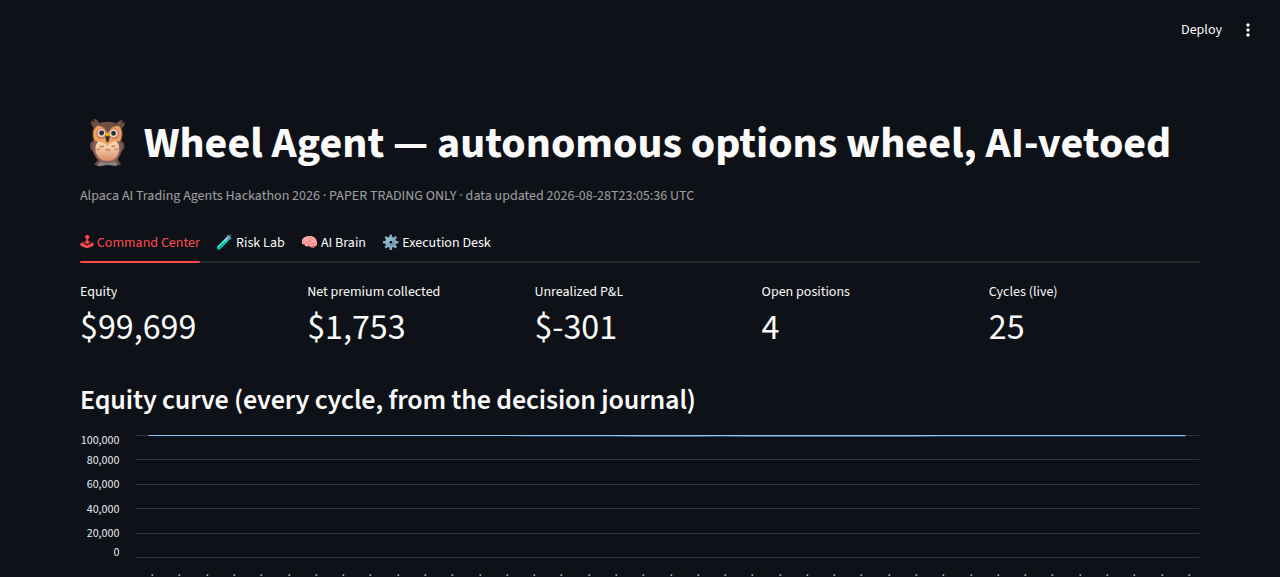
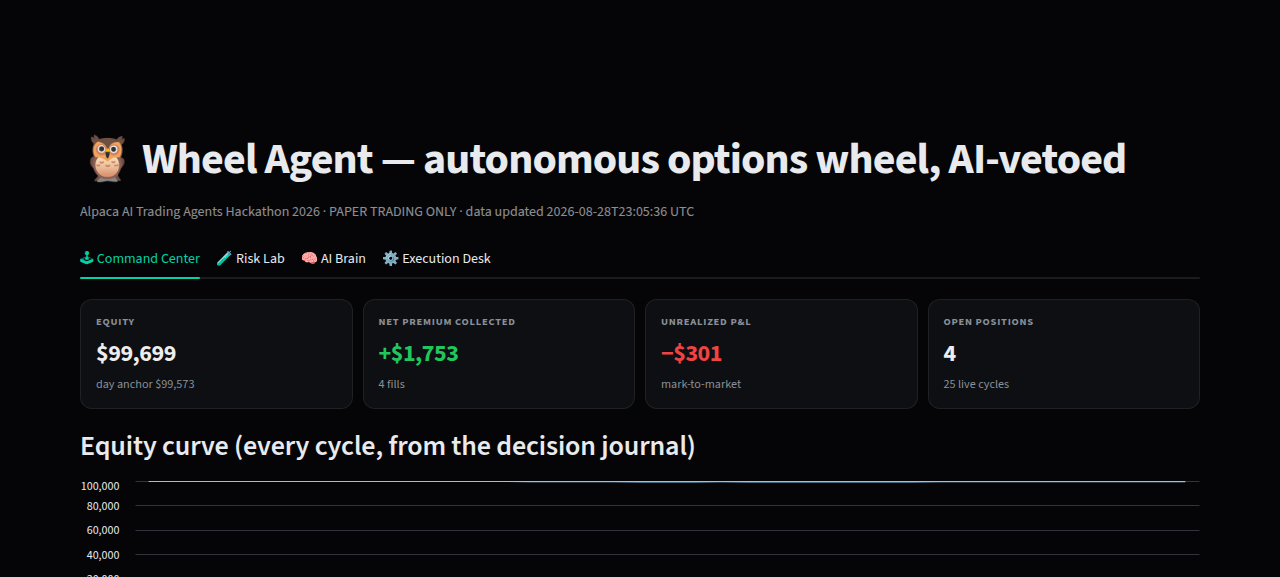
Redesign dashboard: modern-dark fintech theme with financial color semantics
Theme guided by ui-ux-pro-max-skill (MIT) style data: "Financial Dashboard"
semantics (profit green #22C55E / loss red #EF4444) + "Modern Dark" surfaces,
with an Alpaca-inspired mint-teal accent and Inter type. All KPI/macro/stress/
runtime metrics are now custom HTML cards (surface + border + rounded corners)
instead of stock st.metric; negative-P&L formatting fixed to "-$x"; Streamlit
chrome (Deploy button, status) hidden for a product feel. Theme config lives at
repo root (Streamlit Cloud) and agent/ (local runs). Visually verified.

diff --git a/agent/dashboard/app.py b/agent/dashboard/app.py
@@ -15,6 +15,91 @@ import streamlit as st
 st.set_page_config(page_title="Wheel Agent — Alpaca Hackathon",
                    page_icon="🦉", layout="wide")
 
+# --- theme: modern-dark fintech (ui-ux-pro-max guidance, MIT) with an
+# Alpaca-inspired mint-teal accent; financial semantics green/red stay native
+THEME_CSS = """
+<style>
+@import url('https://fonts.googleapis.com/css2?family=Inter:wght@400;500;600;700&display=swap');
+html, body, button, [class*="css"], [data-testid="stMetricLabel"],
+[data-testid="stMetricValue"] {
+    font-family: 'Inter', -apple-system, 'Segoe UI', sans-serif;
+}
+h1, h2, h3 {letter-spacing: -0.02em;}
+section[data-testid="stMetric"] {
+    background: #0D0F12;
+    border: 1px solid rgba(255,255,255,0.07);
+    border-radius: 12px;
+    padding: 14px 16px 10px 16px;
+}
+section[data-testid="stMetric"] > div > label {
+    color: #8A8F98 !important;
+    text-transform: uppercase;
+    font-size: 0.70rem;
+    letter-spacing: 0.05em;
+    font-weight: 600;
+}
+.stTabs [data-baseweb="tab-list"] {
+    gap: 4px;
+    border-bottom: 1px solid rgba(255,255,255,0.08);
+}
+.stTabs [data-baseweb="tab"] {
+    border-radius: 9px 9px 0 0;
+    padding: 8px 18px;
+    color: #8A8F98;
+    font-weight: 500;
+}
+.stTabs [data-baseweb="tab"][aria-selected="true"] {
+    background: #0D0F12;
+    color: #00D3A7 !important;
+    font-weight: 650;
+    border-bottom: 2px solid #00D3A7;
+}
+[data-testid="stHeader"] {background: transparent;}
+[data-testid="stHeadingContainer"] h2 {
+    border-left: 3px solid #00D3A7;
+    padding-left: 10px;
+}
+div[data-testid="stDataFrame"] {border: 1px solid rgba(255,255,255,0.07);
+    border-radius: 10px; overflow: hidden;}
+/* hide default streamlit chrome (deploy button, status) for a product feel */
+[data-testid="stToolbar"], [data-testid="stStatusWidget"],
+[class="stDeployButton"] {display: none !important;}
+#MainMenu {visibility: hidden;}
+footer {visibility: hidden;}
+</style>
+"""
+st.markdown(THEME_CSS, unsafe_allow_html=True)
+
+
+def fmt_usd(v, signed: bool = False) -> str:
+    if v is None:
+        return "—"
+    if signed:
+        return ("−" if v < 0 else "+") + f"${abs(v):,.0f}"
+    return f"${v:,.0f}"
+
+
+def _card(label: str, value: str, sub: str | None = None,
+          tone: str | None = None) -> str:
+    """A metric card with real surface, border and financial color semantics
+    (profit green / loss red / accent teal / neutral off-white)."""
+    color = {"good": "#22C55E", "bad": "#EF4444",
+             "accent": "#00D3A7"}.get(tone or "", "#EDEDEF")
+    subh = (f'<div style="color:#8A8F98;font-size:0.76rem;margin-top:3px">{sub}</div>'
+            if sub else "")
+    return (f'<div style="flex:1;min-width:130px;background:#0D0F12;'
+            f'border:1px solid rgba(255,255,255,0.08);border-radius:12px;'
+            f'padding:13px 15px;">'
+            f'<div style="color:#8A8F98;font-size:0.66rem;font-weight:700;'
+            f'letter-spacing:0.07em;text-transform:uppercase;">{label}</div>'
+            f'<div style="color:{color};font-size:1.5rem;font-weight:700;'
+            f'margin-top:4px;letter-spacing:-0.02em;">{value}</div>{subh}</div>')
+
+
+def card_row(html: str) -> None:
+    st.markdown(f'<div style="display:flex;gap:10px;margin:4px 0 8px 0;">{html}</div>',
+                unsafe_allow_html=True)
+
 HERE = Path(__file__).parent
 DATA = json.loads((HERE / "data.json").read_text())
 
@@ -31,12 +116,18 @@ tabs = st.tabs(["🕹 Command Center", "🧪 Risk Lab", "🧠 AI Brain", "⚙
 
 # ---------------------------------------------------------------- Command ---
 with tabs[0]:
-    c1, c2, c3, c4, c5 = st.columns(5)
-    c1.metric("Equity", f"${acct.get('equity', 0):,.0f}")
-    c2.metric("Net premium collected", f"${DATA.get('premium_net_collected', 0):,.0f}")
-    c3.metric("Unrealized P&L", f"${stats.get('unrealized_pl', 0):,.0f}")
-    c4.metric("Open positions", len(DATA.get("positions", [])))
-    c5.metric("Cycles (live)", f"{stats.get('live_cycles', 0)}")
+    upl = stats.get("unrealized_pl", 0) or 0
+    prem = DATA.get("premium_net_collected", 0) or 0
+    card_row(
+        _card("Equity", fmt_usd(acct.get("equity", 0)),
+              sub=f"day anchor {fmt_usd(acct.get('day_start_equity'))}")
+        + _card("Net premium collected", fmt_usd(prem, signed=True),
+                sub=f"{stats.get('fills', 0)} fills", tone="good" if prem >= 0 else "bad")
+        + _card("Unrealized P&L", fmt_usd(upl, signed=True),
+                sub="mark-to-market", tone="good" if upl >= 0 else "bad")
+        + _card("Open positions", str(len(DATA.get("positions", []))),
+                sub=f"{stats.get('live_cycles', 0)} live cycles")
+    )
 
     curve = pd.DataFrame(DATA.get("equity_curve", []))
     if not curve.empty:
@@ -48,26 +139,37 @@ with tabs[0]:
     hist = DATA.get("regime_history", [])
     if hist:
         last = hist[-1]
-        b1, b2 = st.columns(2)
-        b1.metric("AI regime (Claude)", last.get("regime") or "-",
-                  f"SPY {last.get('spy_pct')}% d/d" if last.get("spy_pct") is not None else None)
-        b2.metric("Deterministic anchor", last.get("det") or "-")
+        card_row(
+            _card("AI regime (Claude)", last.get("regime") or "—",
+                  sub=f"SPY {last.get('spy_pct'):+.2f}% d/d" if last.get("spy_pct") is not None else "LLM judgment",
+                  tone="good" if last.get("regime") == "RISK_ON"
+                  else ("bad" if last.get("regime") == "RISK_OFF" else "accent"))
+            + _card("Deterministic anchor", last.get("det") or "—",
+                    sub="SPY-intraday tiers · cannot flicker")
+        )
         st.info(f"🧠 Claude said: “{last.get('reason')}”", icon="🧠")
 
     st.subheader("Macro context the AI reads (all Alpaca-native data)")
     macro = (DATA.get("market_context") or {}).get("macro", {})
     if macro:
-        m1, m2, m3, m4 = st.columns(4)
-        for col, name in zip((m1, m2, m3), ("GLD", "VIXY", "BTC")):
+        names = {"GLD": "gold · flight to safety", "VIXY": "priced fear",
+                 "BTC": "risk appetite"}
+        parts = ""
+        for name, label in names.items():
             m = macro.get(name) or {}
-            col.metric(f"{name} — {'gold' if name == 'GLD' else 'priced fear' if name == 'VIXY' else 'risk appetite'}",
-                       f"{m.get('day_pct', 0):+.2f}% d/d",
-                       f"vs SMA20 {m.get('vs_sma20_pct'):+.1f}%"
-                       if m.get("vs_sma20_pct") is not None else None)
+            day = m.get("day_pct", 0) or 0
+            vs20 = m.get("vs_sma20_pct")
+            tone = "bad" if (name == "VIXY" and day > 2) or (
+                name in ("GLD", "BTC") and day < -3) else None
+            parts += _card(name, f"{day:+.2f}% d/d",
+                           sub=f"vs SMA20 {vs20:+.1f}%" if vs20 is not None else label,
+                           tone=tone)
         news = macro.get("news") or {}
-        m4.metric("News sentiment (Alpaca)",
-                  f"{news.get('avg_sentiment', 0):+.2f}" if news.get("avg_sentiment") is not None else "n/a",
-                  f"{len(news.get('headlines', []))} headlines")
+        n_avg = news.get("avg_sentiment")
+        parts += _card("News (Alpaca)",
+                       f"{n_avg:+.2f}" if n_avg is not None else f"{len(news.get('headlines', []))} h/l",
+                       sub=f"{len(news.get('headlines', []))} headlines · LLM reads them")
+        card_row(parts)
         if news.get("headlines"):
             for h in news["headlines"][:5]:
                 s = h.get("sentiment") or 0
@@ -114,9 +216,9 @@ with tabs[1]:
 
     st.subheader("Stress test — what a selloff tonight would do")
     shocks = [-0.01, -0.02, -0.05]
-    cols = st.columns(len(shocks))
     rows = []
-    for col, sh in zip(cols, shocks):
+    cards = ""
+    for sh in shocks:
         book_pl = 0.0
         at_risk = 0.0
         itm = []
@@ -133,11 +235,13 @@ with tabs[1]:
             if strike > new_spot:
                 at_risk += p.get("collateral") or 0
                 itm.append(p["underlying"])
-        col.metric(f"SPY {sh:+.0%}", f"${book_pl:+,.0f}",
-                   f"{len(itm)} put(s) ITM", delta_color="inverse")
-        rows.append({"shock": f"{sh:+.0%}", "est. book P&L": f"${book_pl:+,.0f}",
-                     "collateral at risk": f"${at_risk:,.0f}",
+        cards += _card(f"SPY {sh:+.0%}", fmt_usd(book_pl, signed=True),
+                       sub=f"{len(itm)} put(s) ITM · risk {fmt_usd(at_risk)}",
+                       tone="good" if book_pl >= 0 else "bad")
+        rows.append({"shock": f"{sh:+.0%}", "est. book P&L": fmt_usd(book_pl, signed=True),
+                     "collateral at risk": fmt_usd(at_risk),
                      "ITM underlyings": ", ".join(sorted(set(itm))) or "—"})
+    card_row(cards)
     st.table(pd.DataFrame(rows))
     st.caption("Uniform-shock approximation: every underlying moves with SPY, "
                "beta 1, no vol expansion. Reality is messier — this is a floor, "
@@ -173,7 +277,8 @@ with tabs[2]:
         df.columns = ["ts (UTC)", "AI regime", "anchor", "SPY %", "Claude's reasoning"]
         st.dataframe(df, width='stretch', hide_index=True)
     vetoes = DATA.get("ai_vetoes", [])
-    st.metric("Entries vetoed so far", len(vetoes))
+    card_row(_card("Entries vetoed by the AI", str(len(vetoes)),
+                   sub="it can only say NO", tone="accent"))
     if vetoes:
         st.dataframe(pd.DataFrame(vetoes), width='stretch', hide_index=True)
 
@@ -197,10 +302,13 @@ with tabs[3]:
         st.dataframe(fills.iloc[::-1], width='stretch', hide_index=True)
 
     st.subheader("Runtime")
-    r1, r2, r3 = st.columns(3)
-    r1.metric("Kill switch", "ARMED-HALT" if stats.get("kill_switch") else "off (trading enabled)")
-    r2.metric("Cycles journaled", stats.get("cycles_total", 0))
-    r3.metric("Paper endpoint", "paper-api.alpaca.markets")
+    card_row(
+        _card("Kill switch", "ARMED — HALT" if stats.get("kill_switch") else "off",
+              sub="agent/KILL file", tone="bad" if stats.get("kill_switch") else "accent")
+        + _card("Cycles journaled", str(stats.get("cycles_total", 0)),
+                sub=f"{stats.get('live_cycles', 0)} live")
+        + _card("Paper endpoint", "paper-api", sub="alpaca.markets · read-only dashboard")
+    )
     st.caption("Orders are submitted only by the local agent with --live; this "
                "dashboard is read-only and credential-free.")
 
